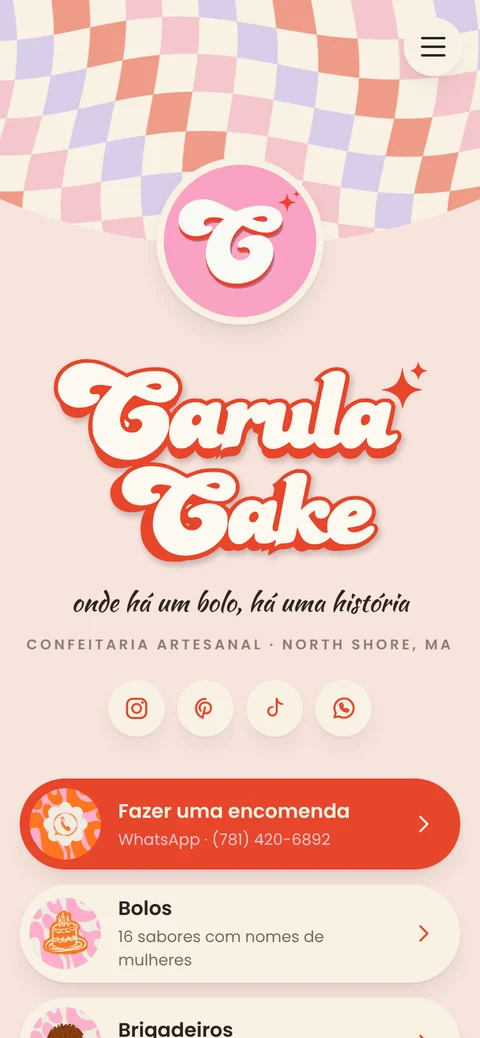
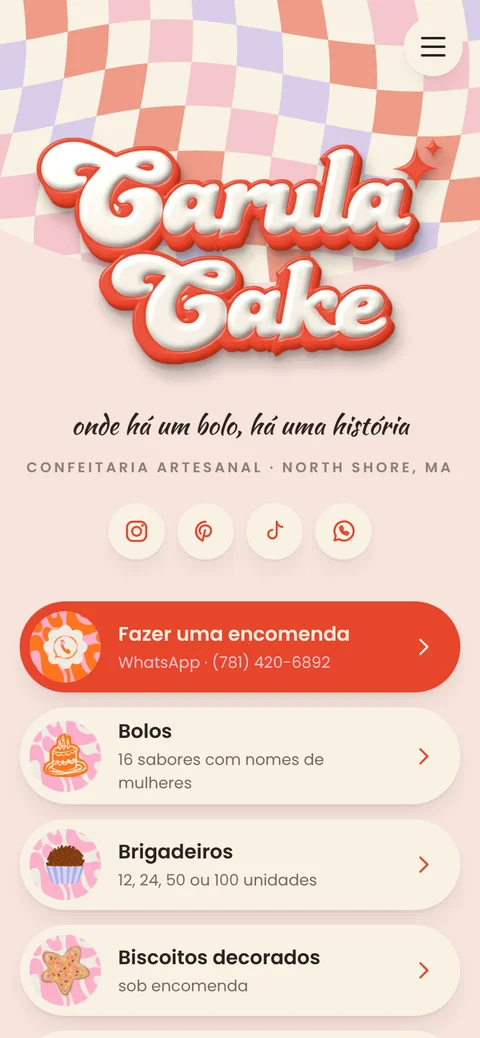
Give the hero lettering a puffy 3D look with a moving shine
Renders the logo lettering with a deep coral extrusion, embossed and
specular-lit cream faces, a soft lift shadow and a rim highlight, then
animates it in the hero: spring entrance, gentle float, mouse tilt and a
periodic shine masked to the letters. The generator script lives in
site/fontes/gerar_letreiro_3d.py.

Claude-Session: https://claude.ai/code/session_011eVt8RepEKJEi2Mbgv5mVZ

diff --git a/site/nova/index.html b/site/nova/index.html
@@ -65,14 +65,23 @@ section { padding: 76px 0; scroll-margin-top: 10px; }
 
 /* ---------- Capa (estrutura do bio.site, roupa nova) ---------- */
 .capa { background: var(--rosa-claro); padding-bottom: 64px; }
-.banner { position: relative; height: clamp(200px, 34vw, 320px); overflow: hidden; clip-path: ellipse(85% 100% at 50% 0); }
+.banner { position: relative; height: clamp(230px, 40vw, 380px); overflow: hidden; clip-path: ellipse(85% 100% at 50% 0); }
 .banner img { position: absolute; inset: -4%; width: 108%; height: 108%; max-width: none; object-fit: cover; animation: drift 40s ease-in-out infinite alternate; }
 @keyframes drift { to { transform: translate(-3%, -2%); } }
-.perfil { display: grid; justify-items: center; text-align: center; margin-top: -72px; position: relative; }
-.avatar { width: 136px; height: 136px; border-radius: 50%; background: var(--creme); padding: 6px; box-shadow: var(--sombra); }
-.avatar img { width: 100%; height: 100%; border-radius: 50%; object-fit: cover; }
-h1 { margin-top: 10px; line-height: 0; }
-h1 img { width: clamp(260px, 80vw, 470px); height: auto; }
+.perfil { display: grid; justify-items: center; text-align: center; margin-top: calc(-1 * clamp(120px, 24vw, 210px)); position: relative; }
+/* Letreiro 3D: entra crescendo, flutua, inclina com o mouse e recebe um brilho que passa */
+h1.letreiro { line-height: 0; perspective: 1000px; position: relative; z-index: 2; }
+.letreiro .tilt { display: inline-block; transform: rotateX(var(--rx, 0deg)) rotateY(var(--ry, 0deg)); transition: transform .7s var(--ease); }
+.letreiro .flutua { position: relative; display: inline-block; width: clamp(300px, 90vw, 600px);
+  animation: entra 1.1s cubic-bezier(.2, 1.35, .4, 1) .1s both, flutua 5.5s ease-in-out 1.3s infinite alternate; }
+.letreiro img { width: 100%; height: auto; }
+.letreiro .brilho { position: absolute; inset: 0; pointer-events: none;
+  -webkit-mask: url(img/letreiro-mascara.webp) 0 0 / 100% 100% no-repeat; mask: url(img/letreiro-mascara.webp) 0 0 / 100% 100% no-repeat;
+  background: linear-gradient(115deg, transparent 0 43%, rgba(255, 255, 255, .45) 48%, rgba(255, 255, 255, .7) 50%, rgba(255, 255, 255, .45) 52%, transparent 57% 100%) 130% 0 / 280% 100% no-repeat;
+  animation: brilho 7s ease-in-out 1.8s infinite; }
+@keyframes entra { from { opacity: 0; transform: translateY(46px) scale(.78); } }
+@keyframes flutua { to { transform: translateY(-9px) rotate(-1deg); } }
+@keyframes brilho { 0% { background-position: 130% 0; } 30%, 100% { background-position: -30% 0; } }
 .perfil .frase { font-family: var(--script); color: var(--choc); font-size: clamp(1.3rem, 5.4vw, 1.6rem); margin-top: 8px; }
 .perfil .local { font-size: .72rem; font-weight: 600; letter-spacing: .2em; text-transform: uppercase; color: var(--rotulo); margin-top: 10px; }
 .social { list-style: none; display: flex; gap: 10px; margin-top: 20px; }
@@ -183,8 +192,6 @@ footer .rede a { text-decoration: none; font-weight: 600; }
 .js .reveal.in { opacity: 1; transform: none; }
 
 @media (min-width: 760px) {
-  .avatar { width: 164px; height: 164px; }
-  .perfil { margin-top: -86px; }
   th { font-size: .72rem; letter-spacing: .12em; }
   table { font-size: .95rem; }
   .sobre .wrap { grid-template-columns: auto 1fr; align-items: center; gap: 64px; justify-items: start; }
@@ -229,8 +236,10 @@ footer .rede a { text-decoration: none; font-weight: 600; }
   <div class="banner" aria-hidden="true"><img src="img/xadrez-banner.webp" alt="" width="2400" height="900"></div>
   <div class="wrap">
     <div class="perfil">
-      <div class="avatar"><img src="img/logo-c.webp" alt="Logo da Carula Cake" width="360" height="360"></div>
-      <h1><img src="img/carula-cake-coral.svg" alt="Carula Cake" width="932" height="575"></h1>
+      <h1 class="letreiro"><span class="tilt"><span class="flutua">
+        <img src="img/letreiro-3d.webp" srcset="img/letreiro-3d-968.webp 968w, img/letreiro-3d.webp 1936w" sizes="(max-width: 660px) 90vw, 600px" alt="Carula Cake" width="1936" height="1170">
+        <span class="brilho" aria-hidden="true"></span>
+      </span></span></h1>
       <p class="frase">onde há um bolo, há uma história</p>
       <p class="local">Confeitaria artesanal · North Shore, MA</p>
       <ul class="social">
@@ -412,6 +421,19 @@ footer .rede a { text-decoration: none; font-weight: 600; }
     setMenu(false);
     target.scrollIntoView({ behavior: reduce ? 'auto' : 'smooth', block: 'start' });
   }));
+
+  // Letreiro inclina na direção do mouse (só em telas com mouse)
+  const tilt = document.querySelector('.letreiro .tilt');
+  if (tilt && !reduce && matchMedia('(hover: hover) and (pointer: fine)').matches) {
+    const capa = document.querySelector('.capa');
+    capa.addEventListener('pointermove', e => {
+      const r = tilt.getBoundingClientRect();
+      const x = (e.clientX - (r.left + r.width / 2)) / innerWidth, y = (e.clientY - (r.top + r.height / 2)) / innerHeight;
+      tilt.style.setProperty('--ry', (x * 18).toFixed(2) + 'deg');
+      tilt.style.setProperty('--rx', (-y * 14).toFixed(2) + 'deg');
+    });
+    capa.addEventListener('pointerleave', () => { tilt.style.removeProperty('--rx'); tilt.style.removeProperty('--ry'); });
+  }
 
   const items = document.querySelectorAll('.reveal');
   if (reduce || !('IntersectionObserver' in window)) { items.forEach(el => el.classList.add('in')); return; }

diff --git a/site/fontes/gerar_letreiro_3d.py b/site/fontes/gerar_letreiro_3d.py
@@ -1,0 +1,67 @@
+import sys
+import numpy as np
+from PIL import Image
+im=np.array(Image.open('letters.png').convert('L'))<128
+ys,xs=np.where(im); K=3
+x0,y0,x1,y1=xs.min()/K,ys.min()/K,xs.max()/K,ys.max()/K
+letters=open('letters.d').read().split('\n'); spark=open('spark.d').read().split('\n'); faces=open('faces.d').read()
+pad=46
+vb=(x0-pad, y0-pad-40, (x1-x0)+2*pad+60, (y1-y0)+2*pad+40+30)
+EXT, EXT_DARK, FACE = '#E8452B', '#A82A16', '#FFF8EE'
+N, DX, DY = 26, 0.36, 0.55
+T='translate(0,832) scale(0.1,-0.1)'
+def mix(a,b,t):
+    a=[int(a[i:i+2],16) for i in (1,3,5)]; b=[int(b[i:i+2],16) for i in (1,3,5)]
+    return '#'+''.join(f'{round(a[i]+(b[i]-a[i])*t):02X}' for i in range(3))
+stack=''.join(f'<use href="#ext" transform="translate({k*DX:.2f},{k*DY:.2f})" fill="{mix(EXT,EXT_DARK,k/N)}"/>' for k in range(N,0,-1))
+svg=f'''<svg xmlns="http://www.w3.org/2000/svg" xmlns:xlink="http://www.w3.org/1999/xlink" viewBox="{vb[0]:.1f} {vb[1]:.1f} {vb[2]:.1f} {vb[3]:.1f}" role="img" aria-label="Carula Cake">
+<defs>
+  <g id="ext"><g transform="{T}">{''.join(f'<path d="{p}"/>' for p in letters)}</g></g>
+  <path id="face" d="{faces}" fill-rule="evenodd"/>
+  <filter id="lift" x="-20%" y="-20%" width="140%" height="150%">
+    <feGaussianBlur in="SourceAlpha" stdDeviation="16" result="b1"/><feOffset dx="10" dy="26" result="o1"/>
+    <feFlood flood-color="#2B2420" flood-opacity=".30"/><feComposite in2="o1" operator="in" result="s1"/>
+    <feGaussianBlur in="SourceAlpha" stdDeviation="4" result="b2"/><feOffset dx="3" dy="7" result="o2"/>
+    <feFlood flood-color="#2B2420" flood-opacity=".22"/><feComposite in2="o2" operator="in" result="s2"/>
+    <feMerge><feMergeNode in="s1"/><feMergeNode in="s2"/><feMergeNode in="SourceGraphic"/></feMerge>
+  </filter>
+  <filter id="puff" x="-5%" y="-5%" width="110%" height="110%">
+    <feGaussianBlur in="SourceAlpha" stdDeviation="7.5" result="bump"/>
+    <feDiffuseLighting in="bump" surfaceScale="9" diffuseConstant="1.04" lighting-color="#FFFFFF" result="diff"><feDistantLight azimuth="235" elevation="58"/></feDiffuseLighting>
+    <feComposite in="diff" in2="SourceAlpha" operator="in" result="diffIn"/>
+    <feBlend in="SourceGraphic" in2="diffIn" mode="multiply" result="shaded"/>
+    <feSpecularLighting in="bump" surfaceScale="9" specularConstant="1.5" specularExponent="34" lighting-color="#FFFFFF" result="spec"><feDistantLight azimuth="235" elevation="38"/></feSpecularLighting>
+    <feComposite in="spec" in2="SourceAlpha" operator="in" result="specIn"/>
+    <feComposite in="shaded" in2="specIn" operator="arithmetic" k1="0" k2="1" k3="1" k4="0" result="lit"/>
+    <feGaussianBlur in="SourceAlpha" stdDeviation="2.2" result="bump2"/>
+    <feSpecularLighting in="bump2" surfaceScale="3" specularConstant="1.1" specularExponent="60" lighting-color="#FFFFFF" result="glint"><fePointLight x="300" y="60" z="420"/></feSpecularLighting>
+    <feComposite in="glint" in2="SourceAlpha" operator="in" result="glintIn"/>
+    <feComposite in="lit" in2="glintIn" operator="arithmetic" k1="0" k2="1" k3=".8" k4="0" result="lit2"/>
+    <feOffset in="SourceAlpha" dx="7" dy="10" result="shift"/>
+    <feComposite in="SourceAlpha" in2="shift" operator="out" result="rim"/>
+    <feMorphology in="rim" operator="erode" radius="1.6" result="rimThin"/>
+    <feGaussianBlur in="rimThin" stdDeviation="2.4" result="rimSoft"/>
+    <feOffset in="rimSoft" dx="4" dy="6" result="rimIn"/>
+    <feComposite in="rimIn" in2="SourceAlpha" operator="in" result="rimClip"/>
+    <feFlood flood-color="#FFFFFF" flood-opacity=".95"/>
+    <feComposite in2="rimClip" operator="in" result="shine"/>
+    <feMerge><feMergeNode in="lit2"/><feMergeNode in="shine"/></feMerge>
+  </filter>
+  <filter id="puffExt" x="-5%" y="-5%" width="110%" height="110%">
+    <feGaussianBlur in="SourceAlpha" stdDeviation="3" result="bump"/>
+    <feSpecularLighting in="bump" surfaceScale="5" specularConstant=".95" specularExponent="28" lighting-color="#FFE6DC" result="spec"><feDistantLight azimuth="235" elevation="40"/></feSpecularLighting>
+    <feComposite in="spec" in2="SourceAlpha" operator="in" result="specIn"/>
+    <feComposite in="SourceGraphic" in2="specIn" operator="arithmetic" k1="0" k2="1" k3=".55" k4="0"/>
+  </filter>
+</defs>
+<g filter="url(#lift)">
+  {stack}
+  <use href="#ext" fill="{EXT}" filter="url(#puffExt)"/>
+  <use href="#face" fill="{FACE}" filter="url(#puff)"/>
+</g>
+<g filter="url(#lift)"><g filter="url(#puffExt)"><g transform="{T}" fill="{EXT}">{''.join(f'<path d="{p}"/>' for p in spark)}</g></g></g>
+</svg>'''
+open(sys.argv[1],'w').write(svg)
+mask=f'<svg xmlns="http://www.w3.org/2000/svg" viewBox="{vb[0]:.1f} {vb[1]:.1f} {vb[2]:.1f} {vb[3]:.1f}"><g transform="{T}" fill="#fff">'+''.join(f'<path d="{p}"/>' for p in letters+spark)+f'</g><path d="{faces}" fill-rule="evenodd" fill="#fff"/></svg>'
+open(sys.argv[1].replace('.svg','-mascara.svg'),'w').write(mask)
+print('ok', vb)
